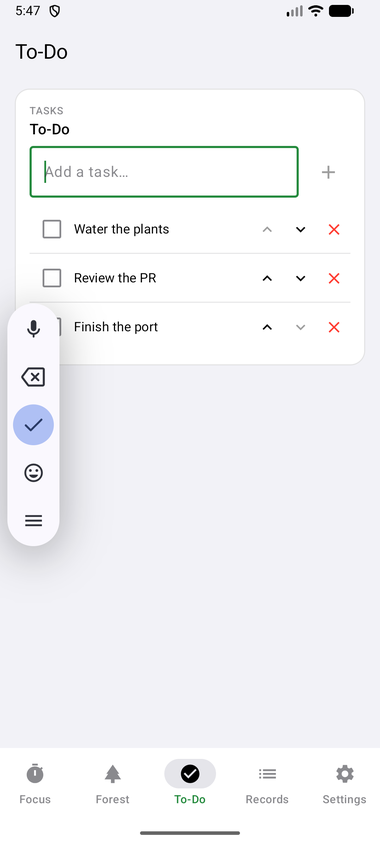
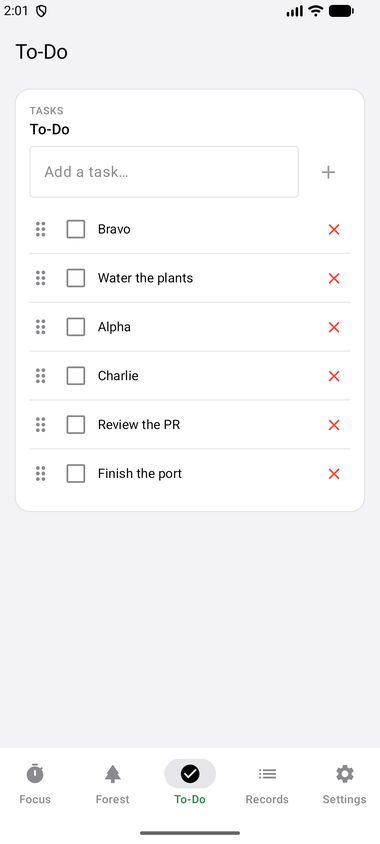
Show the drag handles in the README screenshot

diff --git a/README.md b/README.md
@@ -26,7 +26,7 @@ Everything the web app does, plus what only a phone can:
 | **A tree per session** | Seven species, chosen by tapping the tree rather than reading a dropdown. The name remembers your pick; past sessions keep the tree they were planted with. |
 | **Forest** | Today / week / month, with each tree drawn at the size its session earned. |
 | **Rest stopwatch** | Plants a wilted tree; rests under a minute are dropped. |
-| **To-do list** | Reorderable, synced when signed in. |
+| **To-do list** | Drag by the grip handle to reorder, synced when signed in. |
 | **Focus history** | Searchable, filterable, editable, with today/total stats. |
 | **Google sync** | The same account, the same four tables, the same rows. |
 | **Light / dark / system**, **English / 한국어** | Switchable in Settings. |
